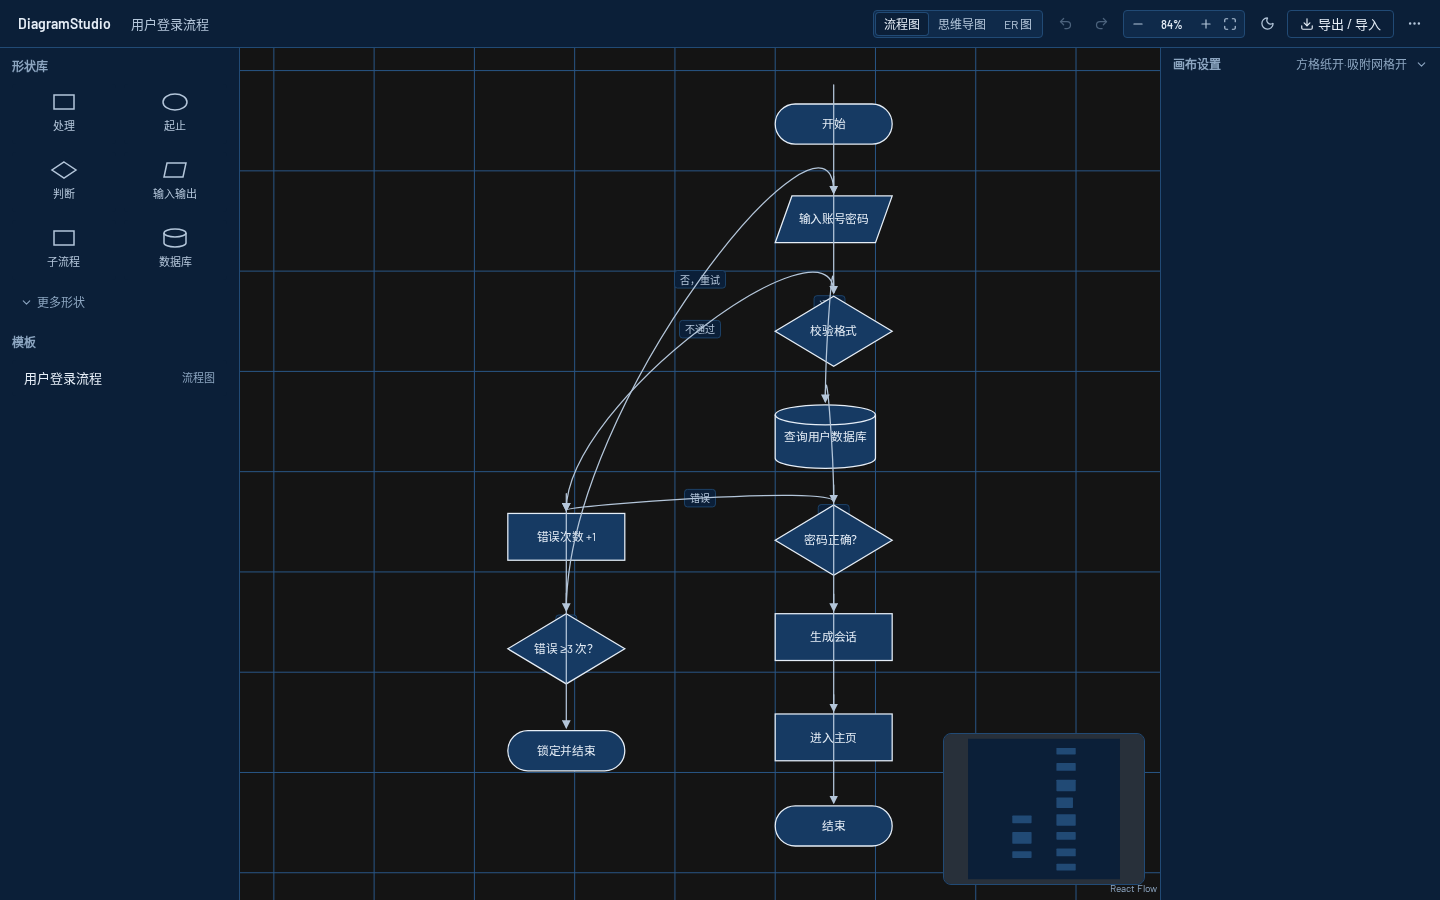
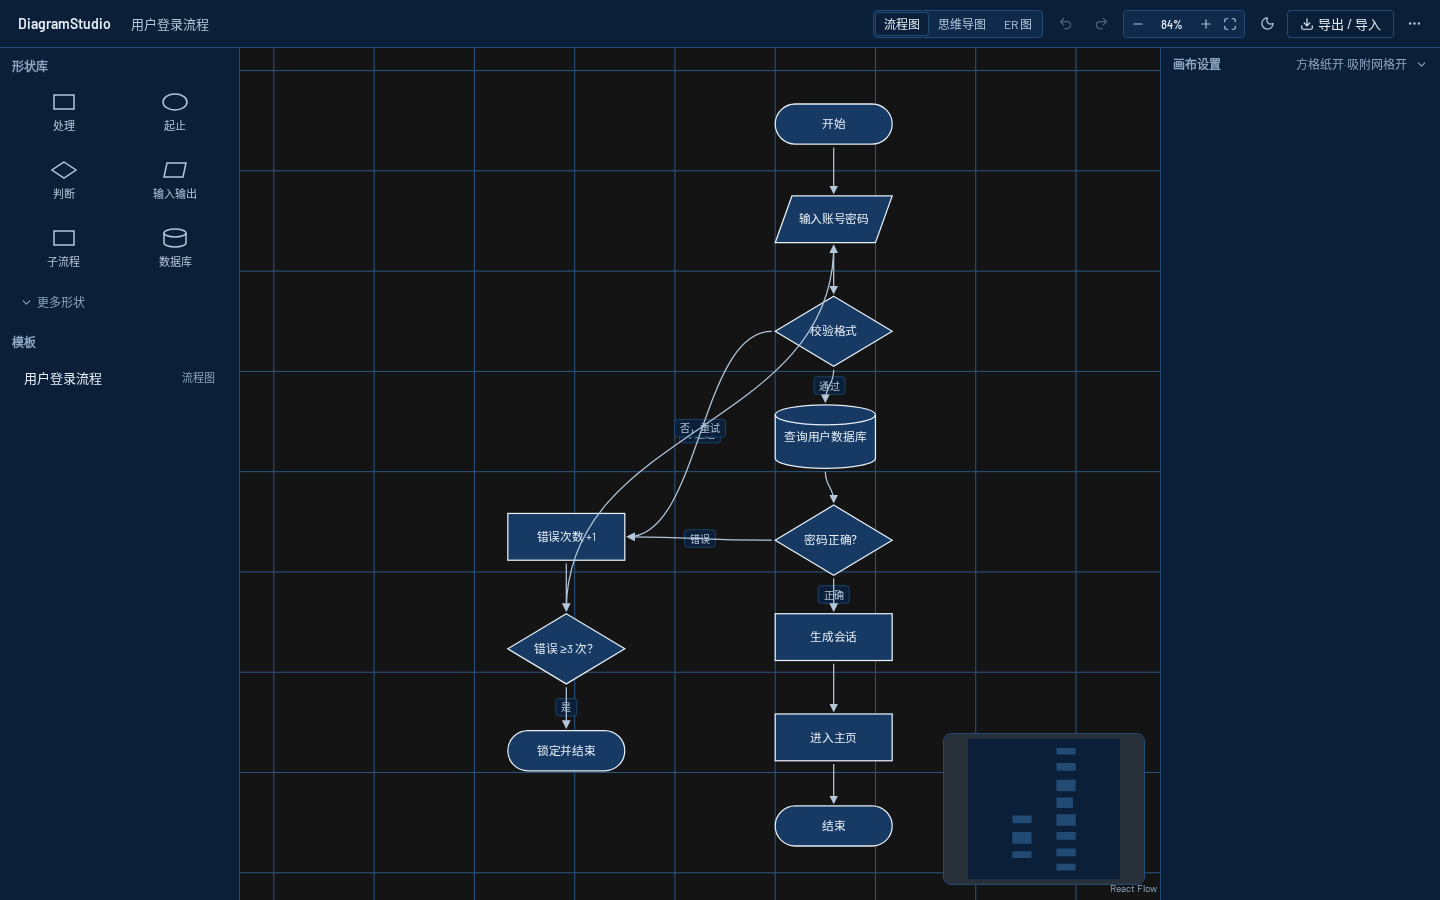
docs: 批次 C 文档收口 — TEST_REPORT 实测数、DEFENSE 局限修正、README 脚本、DESIGN_PATTERNS 新钩子；新模板截图基线（R1 选边后有意的视觉变化）

diff --git a/src/core/collab/yjs.test.ts b/src/core/collab/yjs.test.ts
@@ -12,15 +12,16 @@ const h = vi.hoisted(() => {
 })
 
 vi.mock('y-websocket', async () => {
-  const Y2 = await import('yjs')
   const { Awareness: Aw } = await import('y-protocols/awareness')
   class FakeProvider {
     readonly awareness: InstanceType<typeof Aw>
-    readonly ydoc: InstanceType<typeof Y2.Doc>
+    // eslint-disable-next-line @typescript-eslint/no-explicit-any
+    readonly ydoc: any
     destroyed = false
     private handlers = new Map<string, Handler[]>()
 
-    constructor(_url: string, _room: string, ydoc: InstanceType<typeof Y2.Doc>, _opts?: unknown) {
+    // eslint-disable-next-line @typescript-eslint/no-explicit-any
+    constructor(_url: string, _room: string, ydoc: any, _opts?: unknown) {
       this.ydoc = ydoc
       this.awareness = new Aw(ydoc)
       h.state.instances.push(this)

diff --git a/src/core/io/persist.test.ts b/src/core/io/persist.test.ts
@@ -1,6 +1,6 @@
 // 持久化层：localStorage 读写的全部路径（SPEC §5，离线可用）。
 import { beforeEach, describe, expect, it } from 'vitest'
-import { createDoc, createNode } from '../model/factories'
+import { createNode } from '../model/factories'
 import {
   deleteDoc,
   duplicateDoc,

diff --git a/docs/DEFENSE.md b/docs/DEFENSE.md
@@ -61,9 +61,9 @@ core/       纯 TS：model · commands(命令+补丁历史) · layout · io · c
 ## 6. 质量保障
 
 - **类型**：TS strict；禁 `any` 与 `@ts-ignore`（确需绕过用带说明的 `@ts-expect-error`）。
-- **边界**：ESLint `no-restricted-imports` 强制 core 无 UI 依赖；`pnpm lint` 当前 1 个已知违例已记录（`io/export.ts` 引入 html-to-image，待上移到 features/io）。
-- **测试**：32 个 Vitest 单测（命令/历史/布局/校验/Mermaid/diff/对比度/i18n），Playwright e2e 按 SPEC 8 场景，axe 无障碍检查，1440×900 与 1280×720 双视口。
-- **覆盖率**：core 行覆盖阶段 2 实测 93.7%、当前 71.49%（新增 IO/协作文件待补测），门槛 80% 已在 `vitest.config.ts` 固化。
+- **边界**：ESLint `no-restricted-imports` 强制 core 无 UI 依赖；`pnpm lint` 0 error 0 warning。
+- **测试**：96 个 Vitest 单测（命令/历史/布局/校验/Mermaid/diff/yjs/persist/importer/对比度/i18n）；Playwright e2e 覆盖 SPEC §8 全部 8 场景（含双上下文协作同步），axe 无障碍检查，1440×900 与 1280×720 双视口。
+- **覆盖率**：core 行/语句 98.43%、分支 86.15%、函数 98.14%，门槛 80% 已在 `vitest.config.ts` 固化。
 - **一致性**：文档（本套 docs）与实现同仓演进；`docs/IMPL_CONTRACT.md` 冻结公共接口；`docs/DECISIONS.md` 记录取舍。
 
 ## 7. 设计模式 ↔ 文件速查
@@ -143,7 +143,7 @@ core/       纯 TS：model · commands(命令+补丁历史) · layout · io · c
     A：不违反——形状 `render` 拿到 `ctx.dispatch`，字段增删改都是 `patchNode` 命令进历史，只是命令的发起方从检查器换成了节点自己。`src/plugins/er.tsx`、`ShapeRenderContext.dispatch`
 
 20. **Q：测试覆盖了多少？哪里没覆盖？**
-    A：32 个单测覆盖命令/历史/布局/校验/Mermaid/diff/对比度；当前 core 行覆盖 71.49%（阶段 2 曾 93.7%），缺口集中在 `io/export`、`io/persist`、`collab/yjs` 这几个 IO/网络边界文件——如实记录在 TEST_REPORT §4，不算达标项。
+    A：96 个单测，core 行覆盖 98.43%。连网络边界也覆盖了——`collab/yjs` 用假 WebsocketProvider 驱动真 Y.Doc 与 Awareness，sync/pushLocal/observeDeep/awareness/节流全路径有断言。`plugin.ts`/`adapter.ts`/`command.ts`/`types.ts` 是纯类型声明文件无可执行行。TEST_REPORT §4。
 
 21. **Q：localStorage 方案有什么风险？**
     A：容量 ~5MB、清浏览器数据即丢、无多端同步——这是刻意的取舍（个人作业、离线优先）。索引（`DocMeta`）与正文分键存储，列表页不读全文；导出 JSON 是备份通道。`src/core/io/persist.ts`
@@ -159,15 +159,13 @@ core/       纯 TS：model · commands(命令+补丁历史) · layout · io · c
 **当前局限**（不掩饰）：
 
 - 协作是「演示级」：房间存内存、无鉴权、无持久化；同 key 冲突 LWW 整节点覆盖；协作撤销跳过已被删元素。
-- UI 层（features/）仍在实现中：画布交互、首页、检查器按计划推进；e2e 目前只有冒烟用例，性能专项数据未出。
-- 质量门有 2 处未达标：lint 1 个边界违例（`io/export.ts` 引 `html-to-image`）、core 行覆盖 71.49% < 80%；1 个计时敏感的 flaky 单测已定位根因。
 - Mermaid 仅为子集；不做 subgraph/样式指令。
 - 桌面优先：<1024 宽仅提示，无移动端/触屏精细适配。
+- 性能实测 500n/800e 局部视口 p95≈17.8ms 达标（PERFORMANCE.md），但全览最坏场景接近上限。
 
 **改进方向**：
 
-1. `io/export.ts` 的 DOM 截图调用上移到 `features/io`，core 只留文本导出——恢复 lint 零违例。
-2. 给 `io/persist`、`io/importer`、`collab/yjs`（mock provider）补单测，把行覆盖拉回 80%+。
-3. 修 flaky 测试：`executeCommand` 仅在业务补丁非空时更新 `updatedAt`。
-4. 协作升级：Hocuspocus/持久化后端、字段级冲突合并、可选昵称。
-5. 性能专项出数并挂入 CI；e2e 补齐 SPEC §8 全场景 + axe 门禁。
+1. 协作升级：Hocuspocus/持久化后端、字段级冲突合并、可选昵称。
+2. 虚拟滚动/分层渲染提升全览场景帧率余量。
+3. Mermaid 子集扩语法（subgraph、注释、更多节点形状）。
+4. 组件级单测补齐（features/ 目前靠 e2e 覆盖）。

diff --git a/README.md b/README.md
@@ -18,7 +18,7 @@
 - **自动布局**：dagre（流程/ER）、d3-hierarchy（思维导图），一条命令可撤销，300ms 过渡
 - **导入导出**：JSON（zod 校验中文报错）、PNG（1x/2x/3x）、SVG、可选工程制图「图框与标题栏」
 - **协作（可选）**：`pnpm dev:collab` + `?room=` 链接即房间，yjs CRDT 同步、协作者光标
-- **工程素质**：TS strict、core 层 ESLint 强制无 UI 依赖、32 个单测、明暗双主题、全键盘可达
+- **工程素质**：TS strict、core 层 ESLint 强制无 UI 依赖、96 个单测（core 行覆盖 98%）、SPEC §8 全 8 场景 e2e、明暗双主题、全键盘可达
 
 ## 技术栈
 
@@ -42,7 +42,9 @@ pnpm dev:collab     # 需要协作时：同时起协作服务 ws://127.0.0.1:123
 | --- | --- |
 | `pnpm dev` | Vite 开发服务（:5173） |
 | `pnpm dev:collab` | 协作服务（:1234）+ 前端 |
+| `pnpm collab:server` | 仅协作服务（:1234，e2e 协作用例用） |
 | `pnpm build` | `tsc -b` + `vite build` → `dist/` |
+| `pnpm build:e2e` | e2e 模式构建 → `dist-e2e/`（性能/无障碍用例预览源，含调试钩子） |
 | `pnpm preview` | 预览构建产物 |
 | `pnpm test` | Vitest 单测（jsdom） |
 | `pnpm test:coverage` | 单测 + core 覆盖率（阈值 80%） |
@@ -62,11 +64,12 @@ src/
     plugin.ts / events.ts / palette.ts
   plugins/     flowchart / mindmap / er 三个插件 + registry + shapekit + base
   store/       documentStore、uiStore、collabStore、selectors（zustand）
-  features/    canvas、topbar、palette、inspector、menus、shortcuts、home、io（界面）
+  io/          DOM 导出实现（PNG/SVG 合成、rasterize）
+  features/    canvas（画布交互）、shell（topbar/palette/inspector/menus/shortcuts/home/docs）
   components/  通用小组件
   i18n/zh.ts   全部界面文案
   styles/tokens.css  亮「描图纸」/暗「蓝图」设计令牌
-server/dev.mjs y-websocket 兼容协作服务（内存房间）
+server/dev.mjs y-websocket 兼容协作服务（内存房间）；dev-all.mjs 一键起 5173+1234
 e2e/           Playwright
 docs/          规格、实施契约、决策记录与课程文档
 ```
@@ -82,6 +85,7 @@ docs/          规格、实施契约、决策记录与课程文档
 | `docs/ARCHITECTURE.md` | 架构设计（分层、数据流、插件、协作，含 Mermaid 图） |
 | `docs/DESIGN_PATTERNS.md` | 设计模式对照文件说明 |
 | `docs/TEST_REPORT.md` | 测试报告（用例、覆盖率、质量门、已知缺陷） |
+|| `docs/PERFORMANCE.md` | 性能测试报告（500 节点拖拽帧耗时实测） |
 | `docs/USER_GUIDE.md` | 用户手册（操作、快捷键、FAQ） |
 | `docs/DEMO_SCRIPT.md` | 课堂演示脚本 |
 | `docs/DEFENSE.md` | 答辩手册（选型、链路、20+ 问答、局限） |

diff --git a/PROGRESS.md b/PROGRESS.md
@@ -51,3 +51,10 @@
 - 无障碍修复：--ink-3 #6b7684→#5d6875（WCAG ≥4.5）、形状按钮去掉非法 role=listitem、首页/编辑器补 main/h1 landmark——axe 扫描首页+编辑器×亮暗×双视口 0 violation
 - 性能（pnpm preview 生产构建）：500n/800e 局部视口静态 p95≈17.8ms、拖拽合成事件 p95<1ms、全览 p95≈19ms——断言 <20ms 通过；headless 帧率节流以 launch arg 解除；详见 docs/PERFORMANCE.md
 - measureFrame 改单 rAF 口径；EditorCanvas 暴露 __ds.rf 测试钩子；setGuides 等值守卫减少拖拽重渲染
+
+## 批次 C 收口 ✅ 2026-10-11
+- 评审修复 R1–R7：无 handle 边按节点中心自动选边（pickEdgeSides）；导出图框标题栏预留 TITLE_BLOCK_H；思维导图折叠钮 16px 圆形样式；新增 --accent-ink 令牌（双主题，对比度有单测）；ER 基数标注 11px + 鹰爪放大；EV.CUT 复制扩展集；DECISIONS 记录协作颜色内联与「进入主页」措辞
+- C1 拆分：TopBar/Inspector/HomePage/EditorCanvas/ExportDialog/DsEdge/ConnectMenu/erEntity 等全部组件 ≤200 行、函数 ≤50 行（erEntity→erEntity+erFields+erFieldButtons；EditorCanvas 接线→useCanvasWiring/useCollabCursor）
+- C2 覆盖：新增 yjs（假 provider）/persist/importer/events/selectors 等测试至 96 用例；core 行/语句 98.43%、函数 98.14%、分支 86.15%，四项阈值 80% 全过
+- C3 e2e：features.spec.ts（场景 1–7）+ collab.spec.ts（场景 8 双 context 同房同步），全断言 console 零 error/warning，双视口
+- C4 文档：README 脚本/目录更新、TEST_REPORT 真实数字、DEFENSE 局限与问答修正、DESIGN_PATTERNS 补 expandDeletion/mergeWithPrevious 钩子说明

diff --git a/docs/DESIGN_PATTERNS.md b/docs/DESIGN_PATTERNS.md
@@ -29,7 +29,7 @@
 
 ## 2. 策略/插件模式 Strategy & Plugin——三种图共享引擎
 
-**用到什么**：`DiagramPlugin` 接口把「图类型差异」变成可替换的策略对象：`shapes`、`edgeDefaults`、`layout(doc,opts)`、`keymap?`、`onDropOnNode?`、`autoLayoutOnChange?`、`hiddenNodeIds?`、`edgeFields?`、`templates`。
+**用到什么**：`DiagramPlugin` 接口把「图类型差异」变成可替换的策略对象：`shapes`、`edgeDefaults`、`layout(doc,opts)`、`keymap?`、`onDropOnNode?`、`autoLayoutOnChange?`、`hiddenNodeIds?`、`expandDeletion?`、`edgeFields?`、`templates`。其中 `expandDeletion(doc, nodeIds)` 让插件声明「删这些节点时还应连带哪些 id」（思维导图=整棵子树），画布的删除/剪切路径统一调用它；配合 `Command.mergeWithPrevious` 与 `documentStore.lastChange`，「加子主题+自动重排」可合并为一条历史（一次撤销同时回退两者）。
 
 **在哪**：
 
